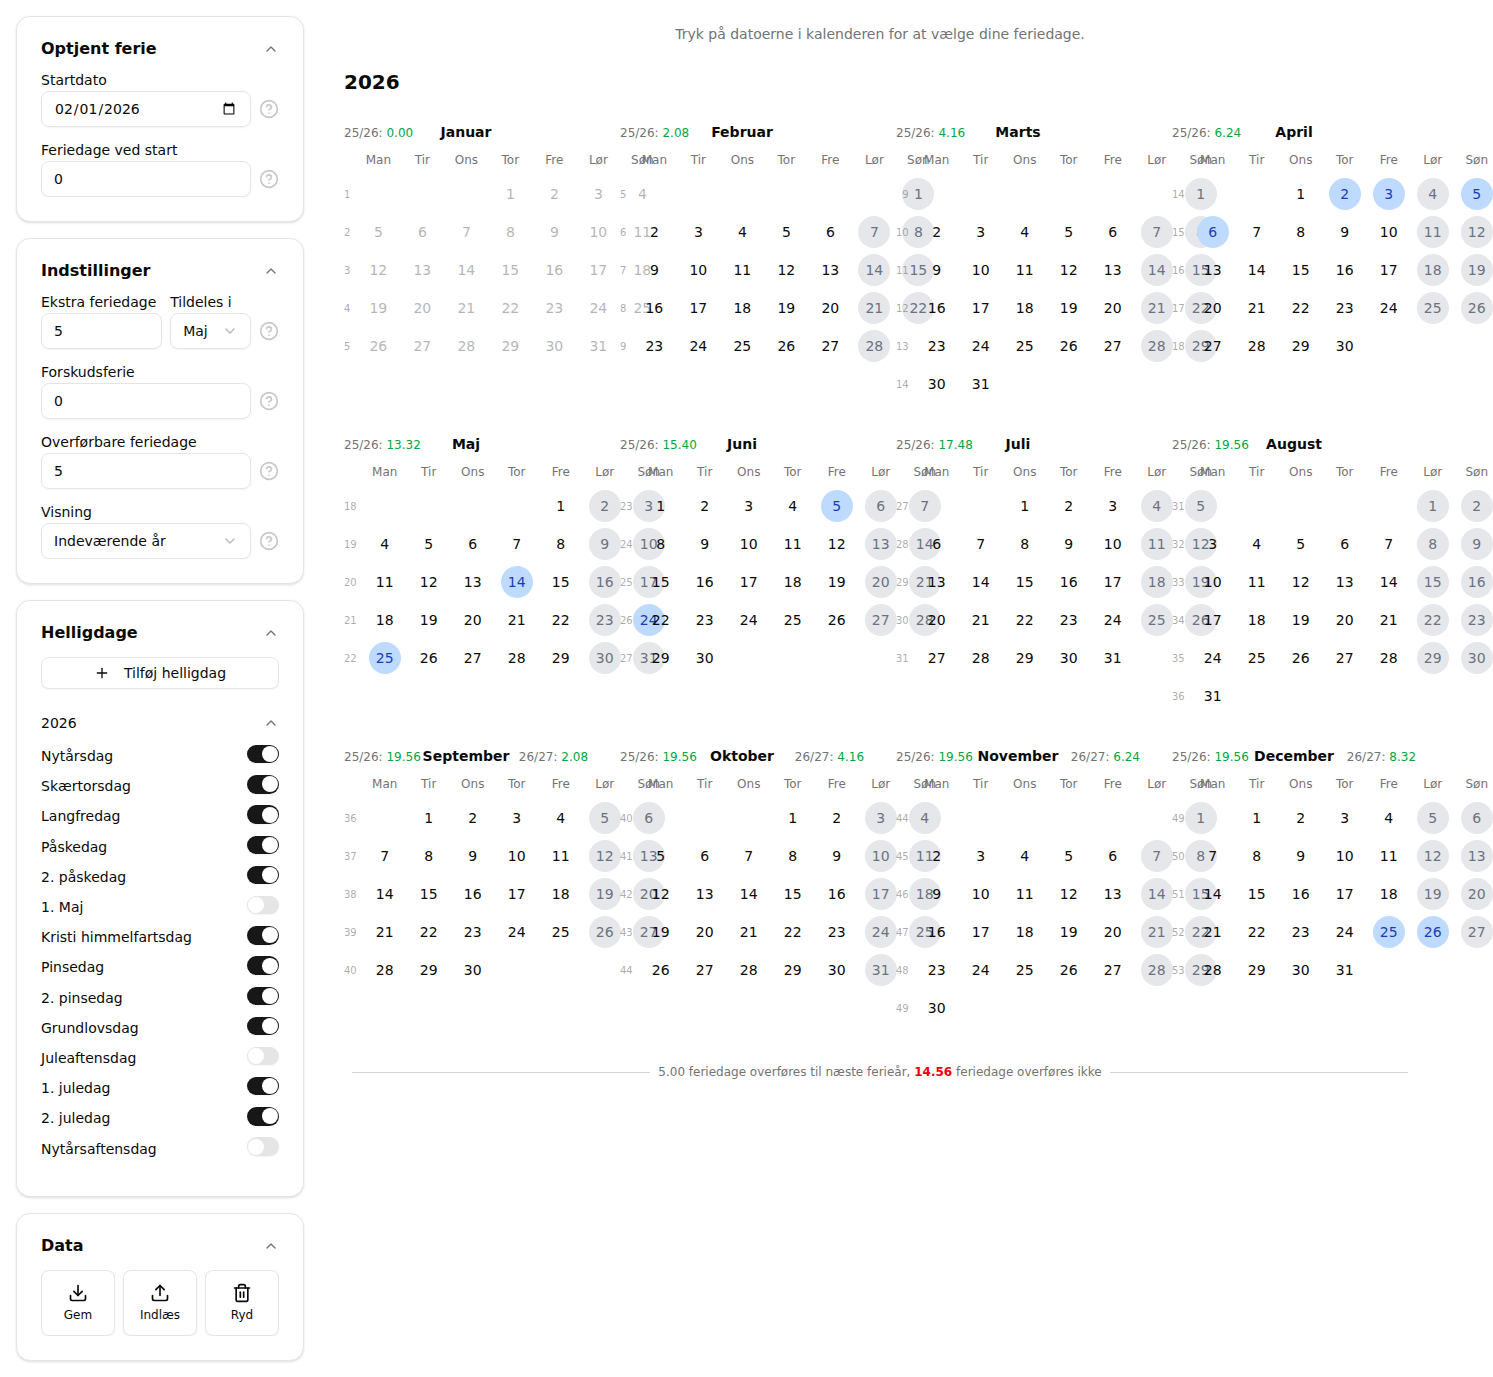
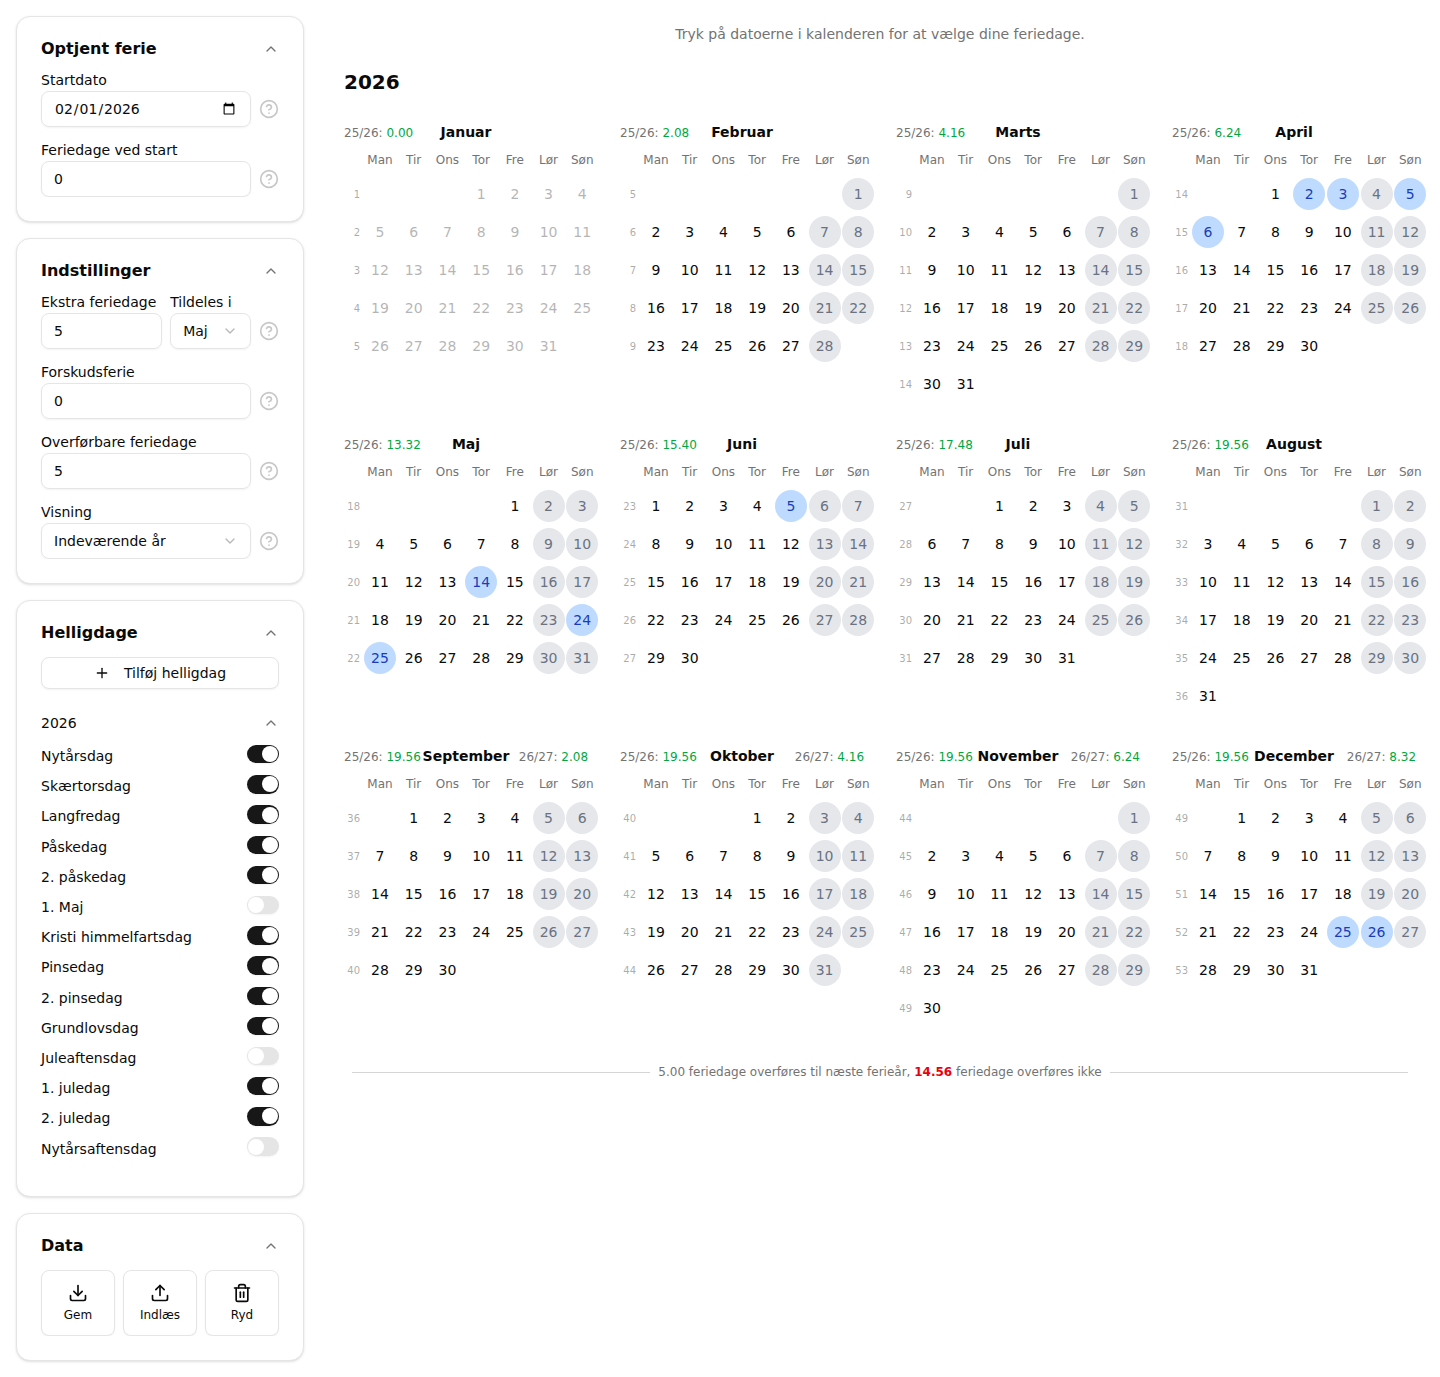
fix: use flex layout for week numbers to prevent month overlap on desktop
The 8-column grid approach caused month cards to overflow their
allocated space in the multi-column CalendarView layout. Now each
week row is a flex container with the week number as a fixed-width
element (w-5) outside the 7-column day grid, preserving the original
day spacing.

https://claude.ai/code/session_01GXiBhKd15WEmbNgEFD6idT

diff --git a/src/components/CalendarMonth.tsx b/src/components/CalendarMonth.tsx
@@ -1,4 +1,3 @@
-import { Fragment } from 'react';
 import {
   startOfMonth,
   endOfMonth,
@@ -102,44 +101,51 @@ export function CalendarMonth({ month, dayStatuses }: CalendarMonthProps) {
   return (
     <div className="p-2">
       <MonthHeader month={month} />
-      <div className="grid grid-cols-[auto_repeat(7,1fr)] gap-x-3 gap-y-1.5">
-        {/* Empty corner cell for week number column */}
-        <div />
-        {DA_DAY_NAMES.map((name) => (
-          <div
-            key={name}
-            className="w-8 h-6 text-xs text-muted-foreground flex items-center justify-center"
-          >
-            {name}
+      <div className="flex flex-col gap-y-1.5">
+        {/* Day name header row */}
+        <div className="flex">
+          <div className="w-5 shrink-0" />
+          <div className="grid grid-cols-7 gap-x-3 flex-1">
+            {DA_DAY_NAMES.map((name) => (
+              <div
+                key={name}
+                className="w-8 h-6 text-xs text-muted-foreground flex items-center justify-center"
+              >
+                {name}
+              </div>
+            ))}
           </div>
-        ))}
+        </div>
+        {/* Week rows */}
         {weeks.map((week, weekIndex) => {
           const firstDay = week.find((d): d is Date => d !== null);
           const weekNum = firstDay ? getISOWeek(firstDay) : null;
           return (
-            <Fragment key={weekIndex}>
-              <div className="h-8 flex items-center justify-end text-[10px] text-muted-foreground/60">
+            <div key={weekIndex} className="flex">
+              <div className="w-5 shrink-0 h-8 flex items-center justify-end pr-1 text-[10px] text-muted-foreground/60">
                 {weekNum}
               </div>
-              {week.map((day, dayIndex) => {
-                if (!day) {
-                  return <div key={`empty-${dayIndex}`} className="w-8 h-8" />;
-                }
-                const dateStr = toISODate(day);
-                return (
-                  <CalendarDay
-                    key={dateStr}
-                    dateStr={dateStr}
-                    dayOfMonth={day.getDate()}
-                    status={dayStatuses[dateStr] ?? 'normal'}
-                  />
-                );
-              })}
-              {week.length < 7 &&
-                Array.from({ length: 7 - week.length }).map((_, i) => (
-                  <div key={`pad-${i}`} className="w-8 h-8" />
-                ))}
-            </Fragment>
+              <div className="grid grid-cols-7 gap-x-3 flex-1">
+                {week.map((day, dayIndex) => {
+                  if (!day) {
+                    return <div key={`empty-${dayIndex}`} className="w-8 h-8" />;
+                  }
+                  const dateStr = toISODate(day);
+                  return (
+                    <CalendarDay
+                      key={dateStr}
+                      dateStr={dateStr}
+                      dayOfMonth={day.getDate()}
+                      status={dayStatuses[dateStr] ?? 'normal'}
+                    />
+                  );
+                })}
+                {week.length < 7 &&
+                  Array.from({ length: 7 - week.length }).map((_, i) => (
+                    <div key={`pad-${i}`} className="w-8 h-8" />
+                  ))}
+              </div>
+            </div>
           );
         })}
       </div>
